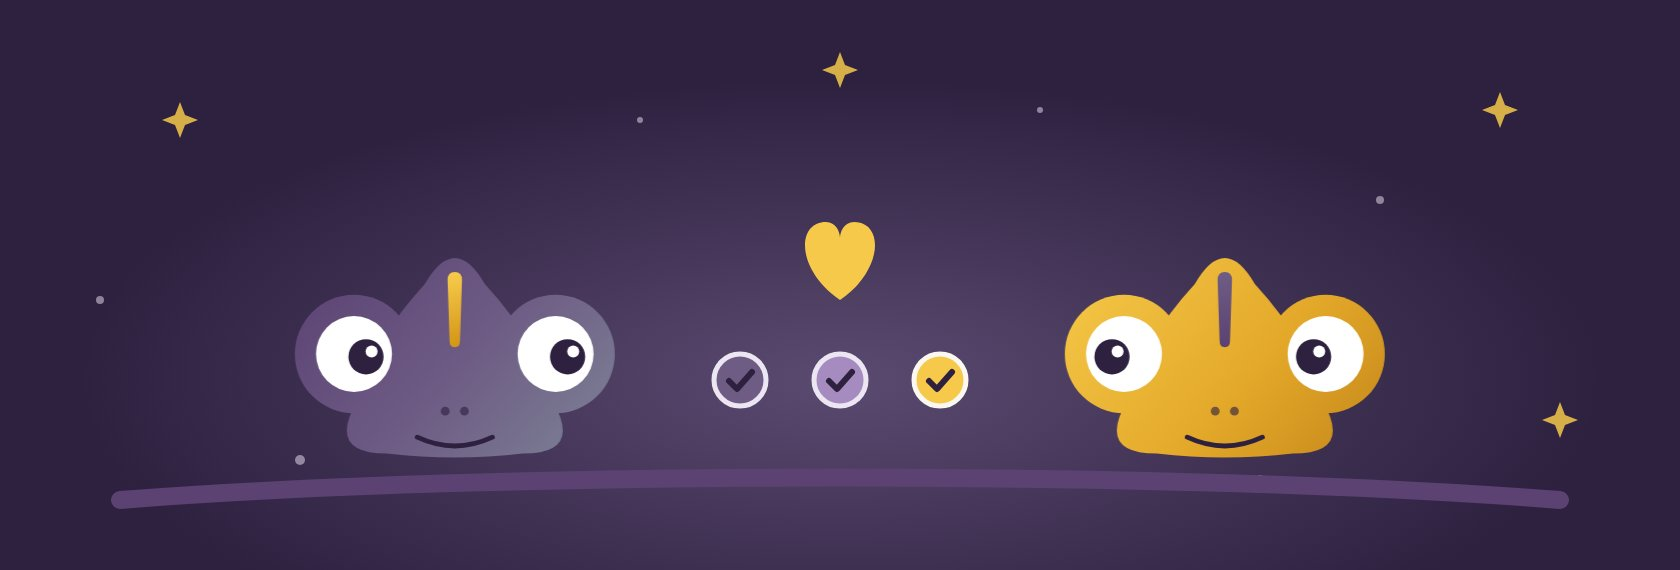
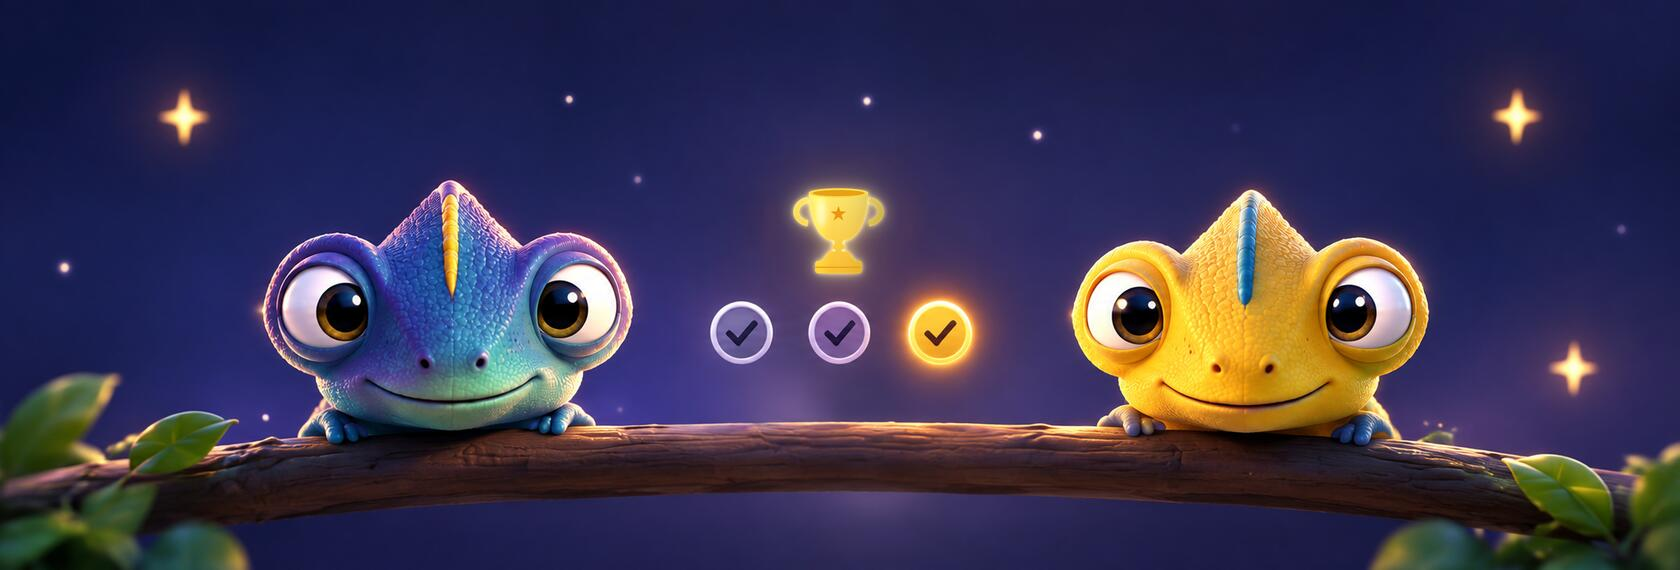
feat: update images for emails

diff --git a/therr-client-web/src/server-client.tsx b/therr-client-web/src/server-client.tsx
@@ -18,7 +18,7 @@ import { GoogleOAuthProvider } from '@react-oauth/google';
 import printLogs from 'therr-js-utilities/print-logs';
 import serialize from 'serialize-javascript';
 import {
-    BrandVariations, Categories, Cities, Content,
+    BrandVariations, Categories, Cities, Content, HABITS_FREE_HABIT_LIMIT,
 } from 'therr-js-utilities/constants';
 import { buildSpaceSlug } from 'therr-js-utilities/slugify';
 import { getGa4Configs } from 'therr-react/utilities/analytics';
@@ -507,6 +507,9 @@ app.use(async (req, res, next) => {
     // analytics without anyone remembering to wire it. That is the failure this
     // fixes — the views were never tagged at all, and nothing failed loudly.
     res.locals.gaMeasurementIdsJson = HABITS_GA_MEASUREMENT_IDS_JSON;
+    // Marketing copy quotes the free-tier cap; reading the constant keeps it from drifting when
+    // the default changes. An env override must be set on this deployment too, not only users-service.
+    res.locals.freeHabitLimit = HABITS_FREE_HABIT_LIMIT;
     // Crawler policy for this host. Deliberately permissive to AI retrieval agents —
     // GEO discovery is the point of this subdomain — but the personal, token-bearing
     // and auth-sensitive paths are kept out of the crawl budget. They already carry

diff --git a/therr-public-library/therr-js-utilities/src/constants/enums/FeatureFlags.ts b/therr-public-library/therr-js-utilities/src/constants/enums/FeatureFlags.ts
@@ -68,9 +68,10 @@ enum FeatureFlags {
  * screen almost nobody saw. Three is the number a committed user reaches in
  * their first weeks, which is when the offer is worth showing.
  *
- * Enforced by `checkHabitCapacity` in the users-service, which is the only
- * place that reads this; the client learns the value from
- * `GET /habits/user-habits/eligibility` rather than from this constant.
+ * Enforced by `checkHabitCapacity` in the users-service; the client learns the
+ * value from `GET /habits/user-habits/eligibility` rather than from this
+ * constant. The habits landing page (therr-client-web) also quotes it, so an
+ * env override belongs on both deployments or the page misstates the cap.
  */
 const DEFAULT_HABITS_FREE_HABIT_LIMIT = 3;
 

diff --git a/context/memory/2026-09-30.md b/context/memory/2026-09-30.md
@@ -1,0 +1,15 @@
+
+## FwH Runway video assets
+- Goal: marketing assets for Runway, then the first App-campaign video.
+- Deliverables: 9:16 chameleon crops + screenshot copies in ~/Desktop/fwh-runway (outside repo). Video (14s portrait) uploaded unlisted: https://www.youtube.com/watch?v=8IArnFqK0Sw
+- Decision: don't commit .mp4s; record the YouTube URL in `habits-app-install.yaml` `assets.videos` (committed on general as 733a59e53, not pushed). Removed the "produce a video" WIP bullet; the "attach assets in Ads UI" follow-up stays.
+- Subtitles done: en/es/fr-CA .srt files in ~/Desktop/fwh-runway, built from YouTube auto-captions.
+
+## /quality-peer-review general → stage
+- Scope: 10 commits (email header images per brand, therr-react pledge actions/reducer, web habits fixes, ads video URL). No migrations, no API shape changes.
+- Result: clean. users unit 1474 + integration 87, therr-react 248, web 473, google-ads 116 all pass; tsc 0 errors (users/therr-react/web); lint 0 errors. No edits, no commit.
+- Open: local general is 7 commits ahead of origin/general (pledge commits 632b9d640, deb539a67, ads video 733a59e53, two merges, a stage publish) — push before merging to stage.
+- Follow-up: landing.hbs free-tier copy now renders `{{freeHabitLimit}}` from HABITS_FREE_HABIT_LIMIT (res.locals in server-client.tsx habits middleware); FeatureFlags doc notes an env override must go on the web deployment too. Uncommitted.
+- Replaced habits-email-header-friends.jpg with chameleons_trophy art (1680x570 progressive JPEG q75, 76KB; source texture makes q85 101KB). Uncommitted.
+- Replaced habits-email-header-streak.jpg with Gemini chameleon-on-checkboxes art (resize only, q75, 101KB). Uncommitted.
+- Replaced habits-email-header.jpg (default) with Gemini chameleon-on-stones art (resize only, q75). All 3 habits headers now q75. Uncommitted.

diff --git a/context/memory/2026-09-29.md b/context/memory/2026-09-29.md
@@ -18,3 +18,13 @@
 - Bug fixed: a Monday check-in before the digest spends the Sunday freeze and dates `grace_used` on Monday (outside the week), so the verdict saw 0 freezes and sent a false `pledgeMissed`. `judgePledgeWeek` now reads the first gap-judging event after the week. 3 regression tests.
 - en-us push copy "honour" → "honor".
 - Open (commented on #2990): pledges don't carry over on pact renewal; messaging-automator `IHabitsDigestCounters` doesn't mirror `pledgeVerdicts`.
+
+## /work-plan --niche habits (on niche/HABITS-general)
+- Proposed: #2990 Phase A mobile half pt 1 — pledge picker. Split: therr-react `PactsService.setPledge/removePledge` + `IPactMember.pledge` on general; picker, partner pledge display, renew note, 3 locales on niche. Optional add-on #2961 week chip.
+- Constraint: pledge server is on stage, not main — don't cut the Habits release with the picker until prod deploy + migration run.
+- Awaiting user approval / placement decision.
+- Approved: picker on PactDetail only; #2961 included. Committed 632b9d640 on general (therr-react, local, not pushed), merged into niche (25d745362).
+- Niche half written, uncommitted: PledgeCard + utilities/pactPledge.ts, partner pledge on PactMemberRow, renew "doesn't carry over" note, analytics habit_pledge_set/update/remove, 3 locales; #2961 chip folds today in (getDisplayedWeekProgress) + Dashboard passes weekProgress. Tests added; lint/tsc baseline/Jest (159 suites) green.
+- Pending: niche commit, backlog § 2.8 update on general, #2990 comment, #2961 close.
+- Done: b9e61a4bf (niche), deb539a67 docs (general) merged down (446b5fcd3). Closed #2961; #2990 commented + box 1 ticked. Nothing pushed.
+- Next batch for #2990: server `pledge_honoured` record (general) → miss card + pledgeMissed clickAction (niche, same release).
